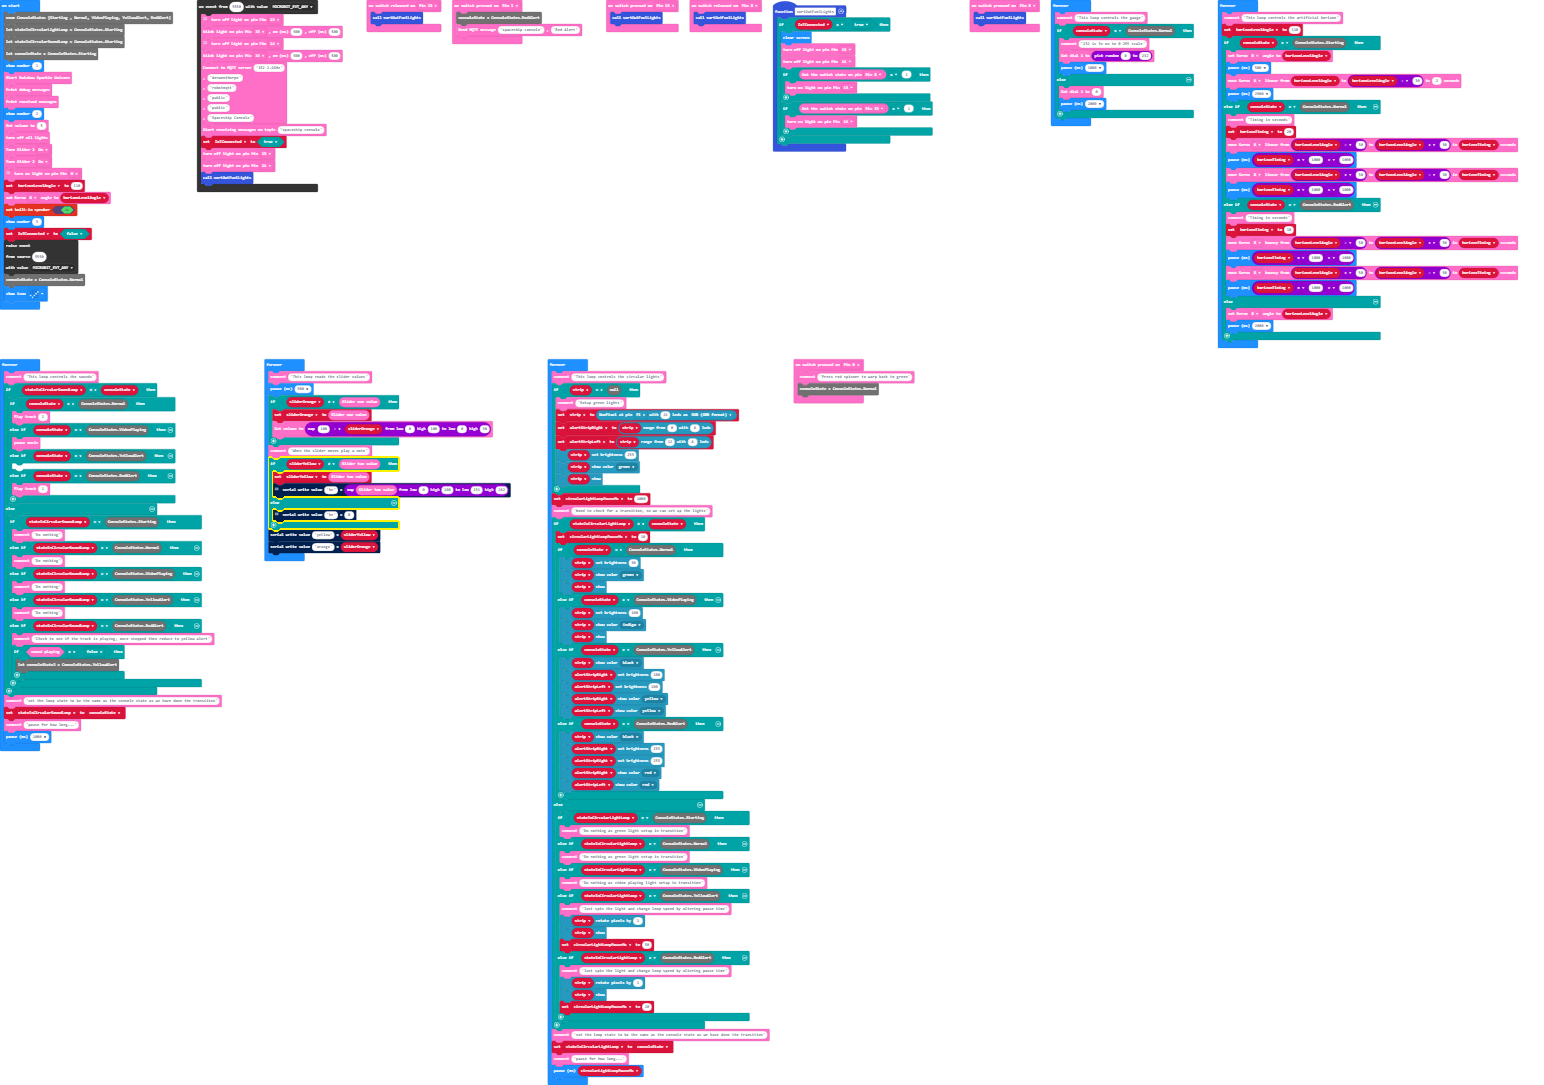
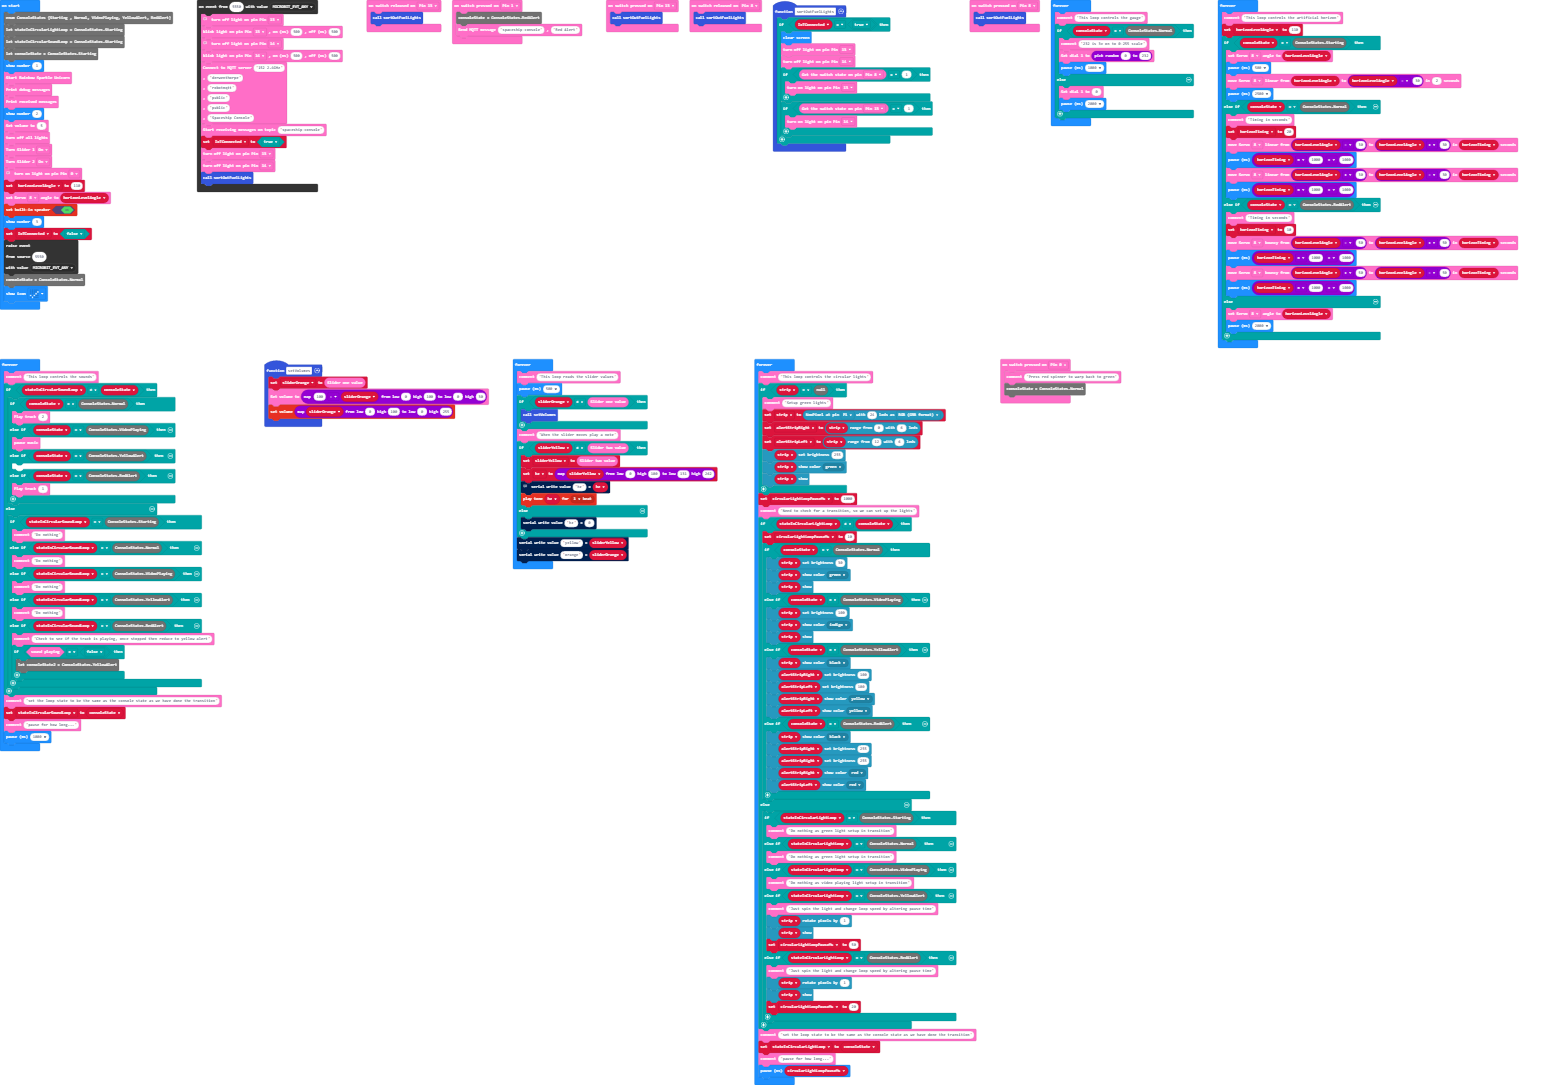
Update pxt.json, main.blocks, main.ts

Changed region(s): [[0.1554, 0.3041, 0.6218, 1.0], [0.6218, 0.3041, 0.7461, 0.3954]]

diff --git a/main.ts b/main.ts
@@ -1,3 +1,8 @@
+function setVolumes () {
+    sliderOrange = RainbowSparkleUnicorn.Controls.Slider1()
+    RainbowSparkleUnicorn.Sound.setVolume(Math.map(100 - sliderOrange, 0, 100, 0, 30))
+    music.setVolume(Math.map(sliderOrange, 0, 100, 0, 255))
+}
 control.onEvent(5550, EventBusValue.MICROBIT_EVT_ANY, function () {
     // Pink Right Light
     RainbowSparkleUnicorn.Light.turnOff(lightPins.P13)
@@ -56,9 +61,10 @@ let circularLightLoopPauseMs = 0
 let alertStripLeft: neopixel.Strip = null
 let alertStripRight: neopixel.Strip = null
 let strip: neopixel.Strip = null
+let hz = 0
 let sliderYellow = 0
-let sliderOrange = 0
 let horizonTiming = 0
+let sliderOrange = 0
 let IoTConnected = false
 enum ConsoleStates {Starting , Normal, VideoPlaying, YellowAlert, RedAlert}
 let stateInCircularLightLoop = ConsoleStates.Starting
@@ -161,15 +167,16 @@ basic.forever(function () {
     RainbowSparkleUnicorn.comment("This loop reads the slider values")
     basic.pause(500)
     if (sliderOrange != RainbowSparkleUnicorn.Controls.Slider1()) {
-        sliderOrange = RainbowSparkleUnicorn.Controls.Slider1()
-        RainbowSparkleUnicorn.Sound.setVolume(Math.map(100 - sliderOrange, 0, 100, 0, 30))
+        setVolumes()
     }
     RainbowSparkleUnicorn.comment("When the slider moves play a note")
     if (sliderYellow != RainbowSparkleUnicorn.Controls.Slider2()) {
         sliderYellow = RainbowSparkleUnicorn.Controls.Slider2()
-        //music.ringTone(Math.map(sliderYellow, 0, 100, 131, 262))
-       // music.setPlayTone(Math.map(sliderYellow, 0, 100, 131, 262),500)
-        serial.writeValue("hz", Math.map(sliderYellow, 0, 100, 131, 262))
+        hz = Math.map(sliderYellow, 0, 100, 131, 262)
+        // music.ringTone(Math.map(sliderYellow, 0, 100, 131, 262))
+        // music.setPlayTone(Math.map(sliderYellow, 0, 100, 131, 262),500)
+        serial.writeValue("hz", hz)
+        music.playTone(hz, music.beat(BeatFraction.Whole))
     } else {
         serial.writeValue("hz", 0)
     }
